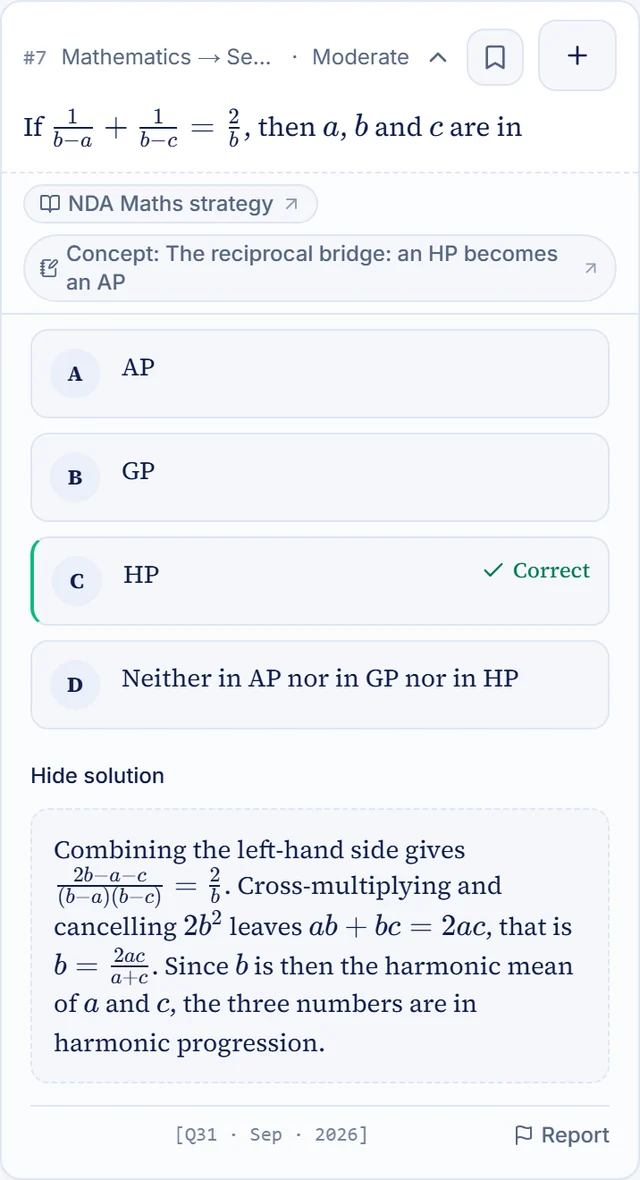
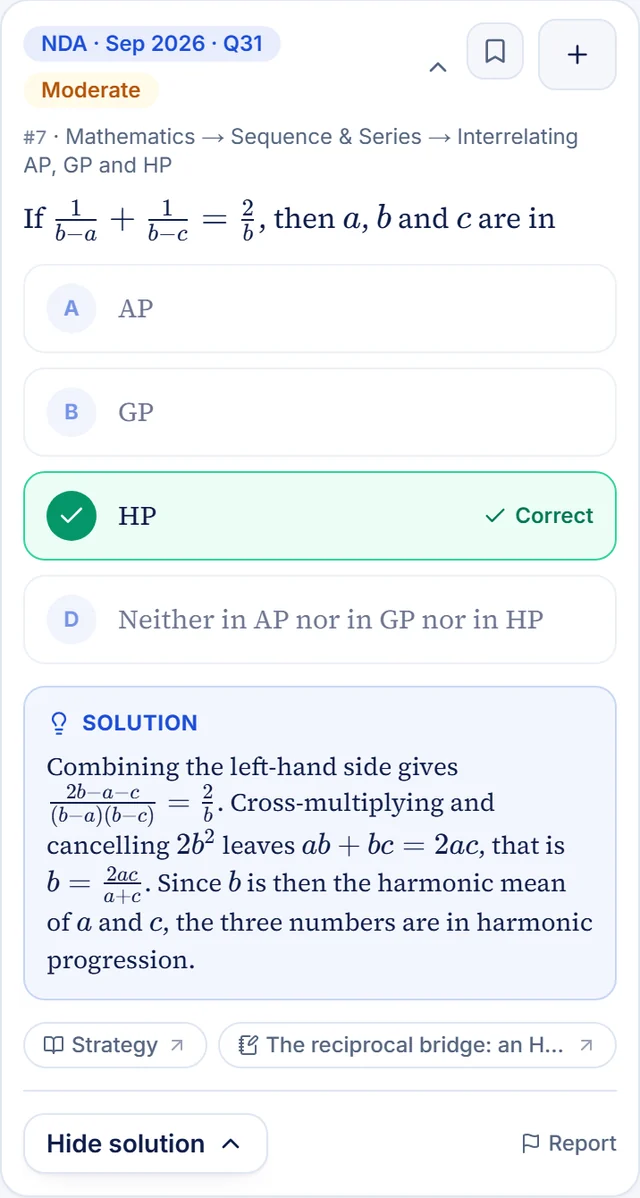
fix(home): show the redesigned question card in the hero screenshot
Recaptured from the live card after the 2026-10-04 redesign (source tag,
green correct state, solution panel, chips, action row), so the homepage
shows what a student actually gets.

diff --git a/src/app/page.tsx b/src/app/page.tsx
@@ -274,7 +274,7 @@ export default async function Home() {
               src="/marketing/answer-card.webp"
               alt="A 2026 NDA question on PYQ Vault with the correct answer marked and the worked solution below it"
               width={640}
-              height={1180}
+              height={1198}
               className="mx-auto max-h-[340px] w-full max-w-sm rounded-2xl object-cover object-top shadow-2xl ring-1 ring-white/20 [mask-image:linear-gradient(to_bottom,black_75%,transparent)] md:max-h-none md:max-w-[340px] md:[mask-image:none]"
             />
           </div>
